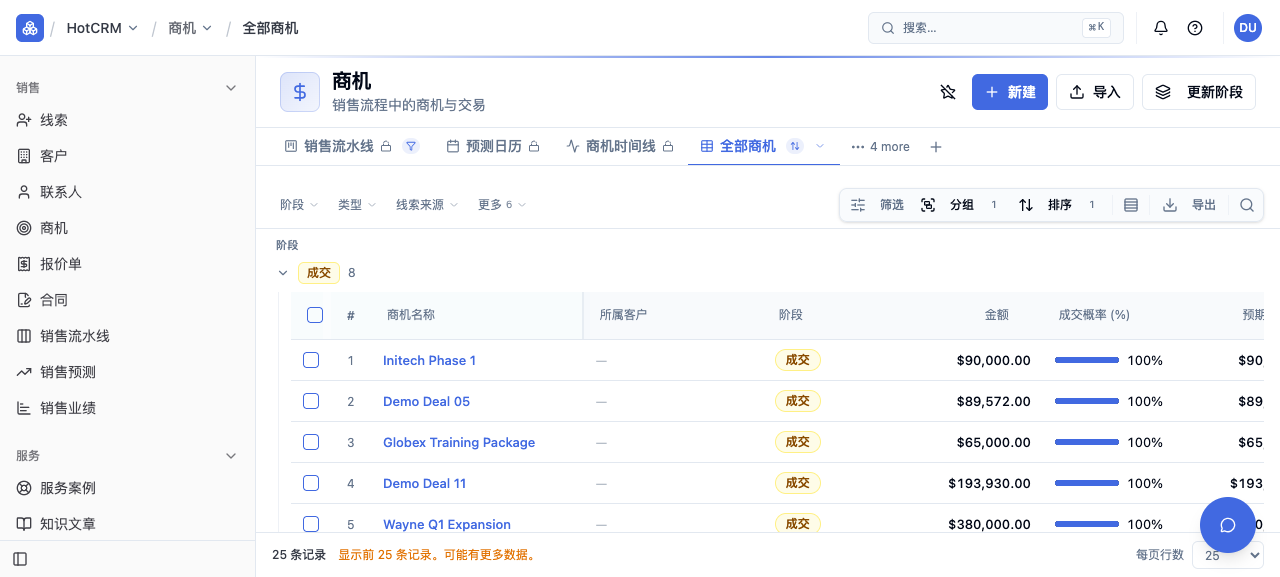
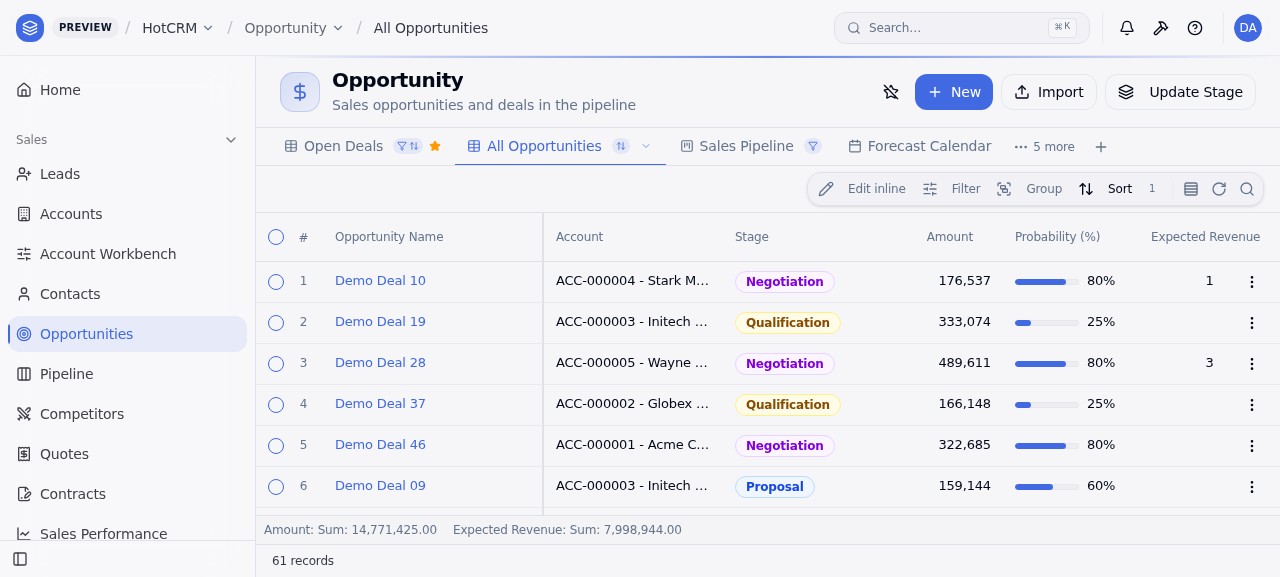
Replace README screenshots with English versions
Recapture all five marketplace screenshots against a live dev instance
running in the default en locale (previously zh-CN), and update the
screenshot notes in README.md and assets/screenshots/README.md to match.

Closes #513

Claude-Session: https://claude.ai/code/session_015F6F3jGDQystmsYkMSBNvJ

diff --git a/assets/screenshots/README.md b/assets/screenshots/README.md
@@ -1,14 +1,13 @@
 # Screenshots
 
-Marketplace screenshots for HotCRM. Captured with `agent-browser` against a live `pnpm dev` instance using the existing seed data (~107 accounts, 43 opportunities, 38 cases). Currently in zh-CN to showcase the i18n.
+Marketplace screenshots for HotCRM. Captured with Playwright (1280×577 viewport, `locale: en-US`) against a live `pnpm dev` instance using the bundled seed data. Captured in English (the default locale); zh-CN, es-ES, and ja-JP bundles are also included in the app.
 
 | File | Page | Highlights |
 |---|---|---|
-| `01-sales-pipeline.png` | Opportunities kanban (`crm_opportunity/view/pipeline_kanban`) | 42 deals across stages, amounts + close dates per card |
-| `02-accounts-list.png` | Accounts card view (`crm_account`) | Industry + ARR + employees + contact info |
-| `03-opportunities-list.png` | All opportunities table view (`crm_opportunity/view/all_opportunities`) | Sortable list with probability bars, grouped by stage |
-| `04-executive-dashboard.png` | Executive dashboard (`dashboard/executive_dashboard`) | $40M ARR / 107 customers / 98 contacts / 262 unconverted leads KPIs + charts |
-| `05-service-cases.png` | Service cases kanban (`crm_case`) | Cases by status (新建/处理中/等待客户回复) with priority badges |
+| `01-sales-pipeline.png` | Opportunities kanban (`crm_opportunity/view/pipeline_kanban`) | Deals across stages, account + amount + close date per card |
+| `02-accounts-list.png` | Account cards view (`crm_account/view/account_gallery`) | Industry + annual revenue + employees + contact info |
+| `03-opportunities-list.png` | All opportunities table view (`crm_opportunity/view/all_opportunities`) | Sortable list with stage badges and probability bars |
+| `04-executive-dashboard.png` | Executive dashboard (`dashboard/executive_dashboard`) | Revenue / accounts / contacts / leads KPIs + revenue trend and industry charts |
+| `05-service-cases.png` | Service cases kanban (`crm_case/view/case_workflow`) | Cases by status (New / In Progress / Waiting on Customer) with priority badges |
 
-To recapture: `pnpm dev` → log in → `agent-browser open` each URL → `agent-browser screenshot <file>`.
-
+To recapture: `pnpm dev` → log in as the seeded dev admin → open each URL under `/_console/apps/app.objectstack.hotcrm/` in a 1280×577 en-US browser → screenshot to the matching file.

diff --git a/README.md b/README.md
@@ -39,7 +39,7 @@ HotCRM is a complete, opinionated CRM built as the **first official application*
 |---|
 | ![Executive dashboard](assets/screenshots/04-executive-dashboard.png) |
 
-> Screenshots show HotCRM running in zh-CN with seeded data. Bundled translations: en, zh-CN, es-ES, ja-JP.
+> Screenshots show HotCRM running in English with seeded data. Bundled translations: en, zh-CN, es-ES, ja-JP.
 
 ---
 
